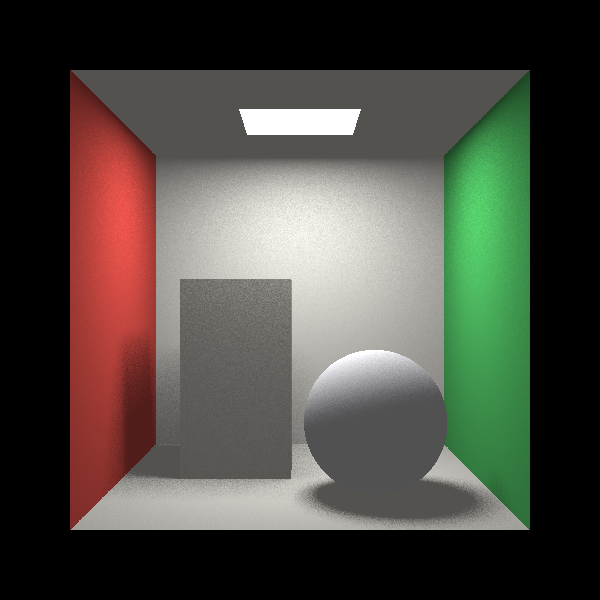
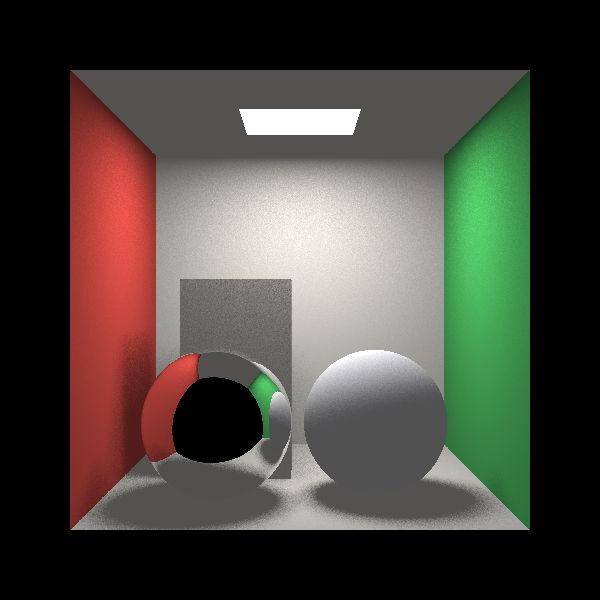
fix

Changed region(s): [[0.12, 0.57, 0.51, 0.9]]

diff --git a/lab_2_cornell_box/main.py b/lab_2_cornell_box/main.py
@@ -126,13 +126,11 @@ def render(width, height, samples, seed):
     hit = np.isfinite(t)
     result = np.zeros_like(colors)
 
-    # Обычные (диффузные) точки.
     diffuse_hit = hit & ~mirror
     p = origins[diffuse_hit] + t[diffuse_hit, None] * directions[diffuse_hit]
     illum = shade(p, normals[diffuse_hit], samples, rng)
     result[diffuse_hit] = colors[diffuse_hit] * illum[:, None]
 
-    # Зеркальные точки: отражённый луч -> scene -> shade.
     mirror_hit = hit & mirror
     if mirror_hit.any():
         pm = origins[mirror_hit] + t[mirror_hit, None] * directions[mirror_hit]
@@ -145,11 +143,8 @@ def render(width, height, samples, seed):
         illum2 = shade(p2, n2[hit2], samples, rng)
         refl_color = np.zeros((mirror_hit.sum(), 3))
         refl_color[hit2] = c2[hit2] * illum2[:, None]
-        # Второй уровень отражения не трассируем: если в зеркале снова зеркало,
-        # остаётся тёмный/серый цвет.
         result[mirror_hit] = refl_color * 0.95
 
-    # Светильник.
     lamp = hit & (np.abs(normals[:, 1] + 1) < EPS)
     ceiling_points = origins[lamp] + t[lamp, None] * directions[lamp]
     lamp_indices = np.flatnonzero(lamp)
